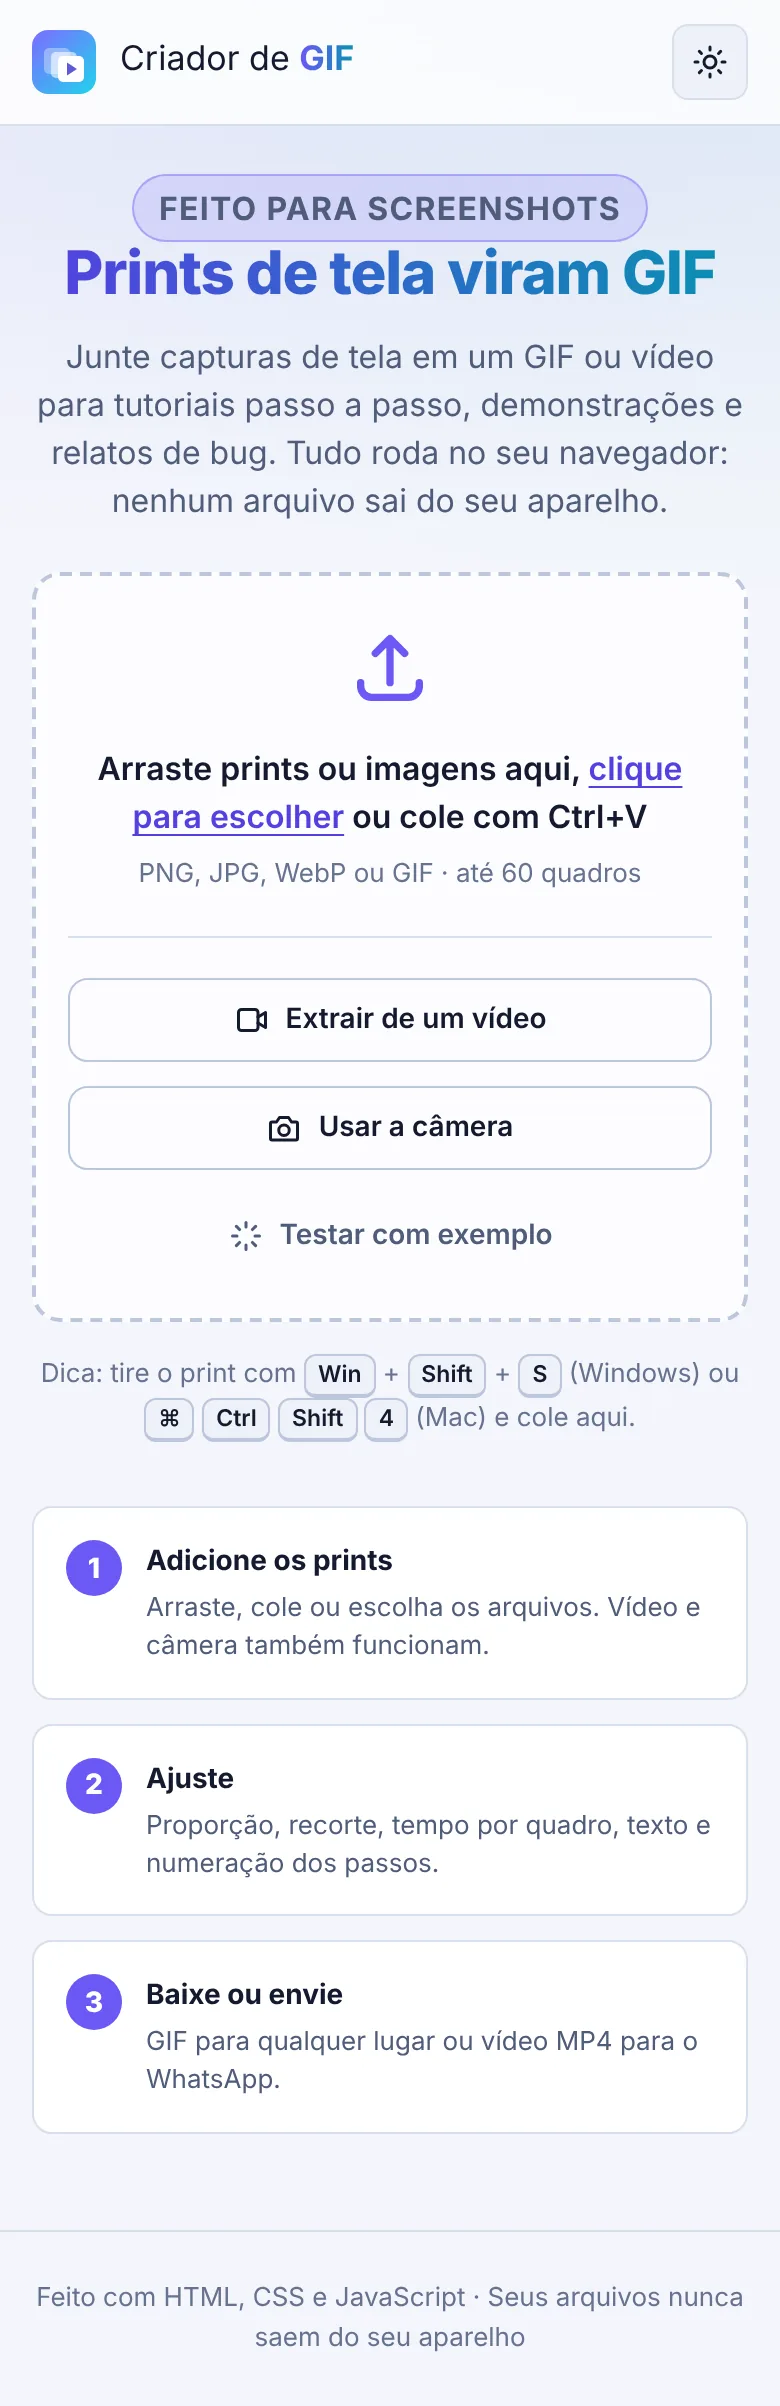
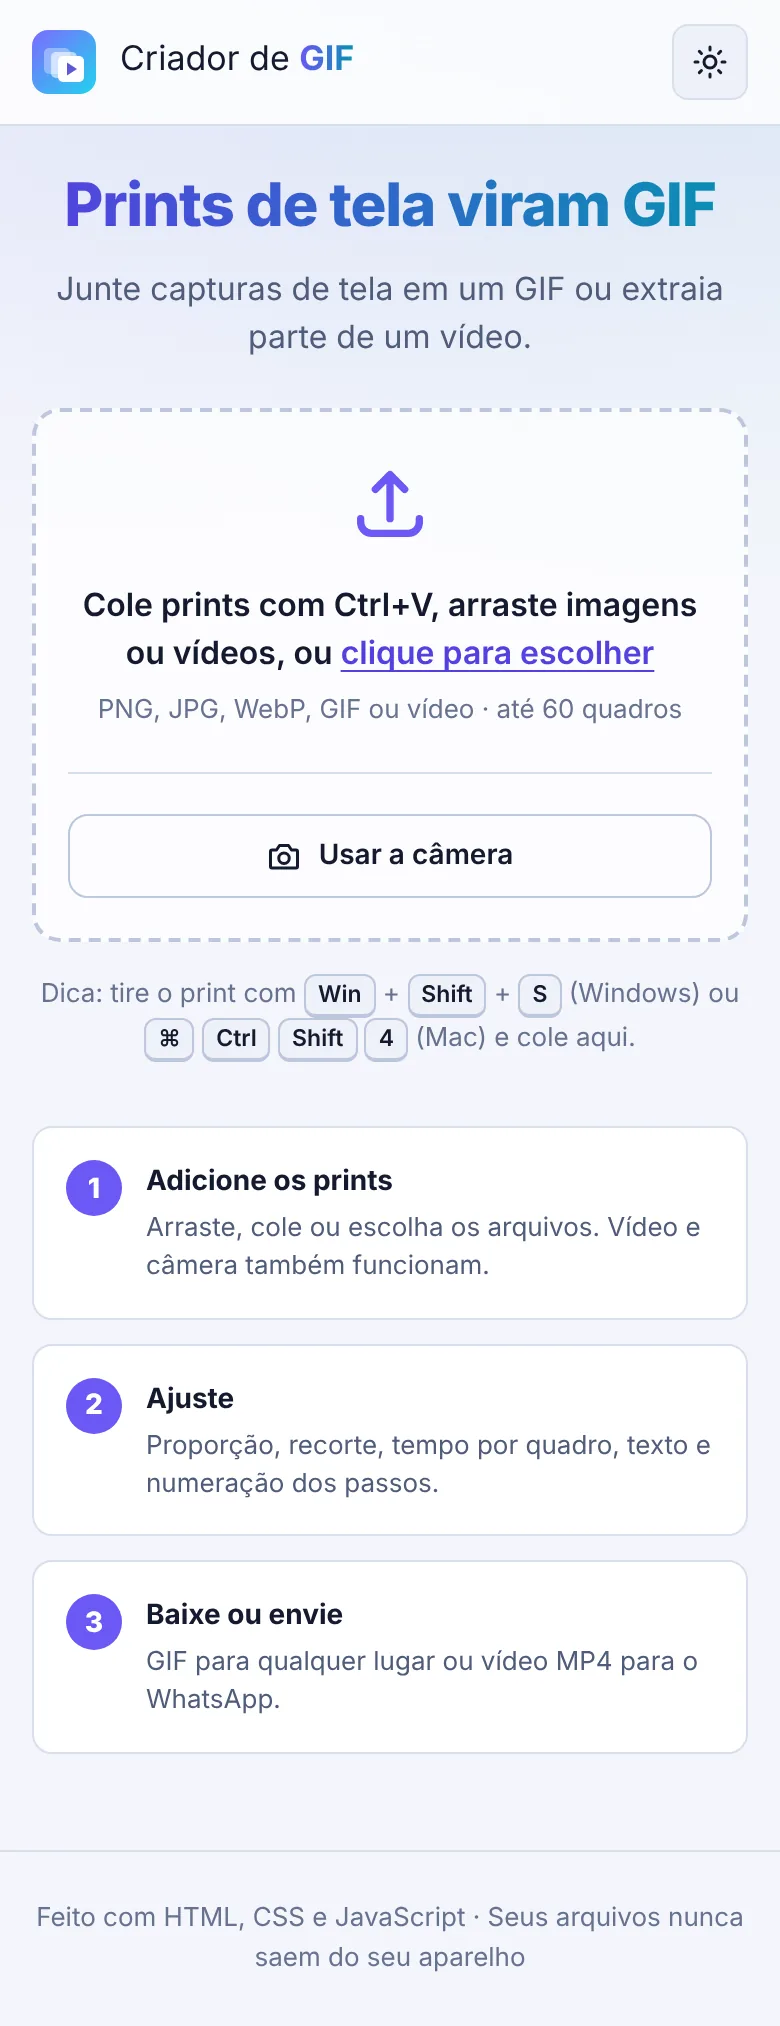
Ajusta textos da tela inicial; remove 'Testar com exemplo' e botão de vídeo (vídeo entra pela caixa de importação)
Claude-Session: https://claude.ai/code/session_01KEZzbK3pqvvUosB7b8xbzM

diff --git a/index.html b/index.html
@@ -44,30 +44,21 @@
     <!-- ============ TELA 1: UPLOAD ============ -->
     <section class="view view--upload" id="viewUpload">
       <div class="hero">
-        <p class="hero__tag">Feito para screenshots</p>
         <h1>Prints de tela viram GIF</h1>
-        <p>Junte capturas de tela em um GIF ou vídeo para tutoriais passo a passo, demonstrações e relatos de bug. Tudo roda no seu navegador: nenhum arquivo sai do seu aparelho.</p>
+        <p>Junte capturas de tela em um GIF ou extraia parte de um vídeo.</p>
       </div>
 
       <div class="dropzone" id="dropzone">
-        <input type="file" id="fileInput" accept="image/*" multiple aria-label="Escolher imagens ou prints">
+        <input type="file" id="fileInput" accept="image/*,video/*" multiple aria-label="Escolher prints, imagens ou vídeos">
         <div class="dropzone__main">
           <svg class="dropzone__icon" viewBox="0 0 24 24" aria-hidden="true"><path d="M4 16v1a3 3 0 0 0 3 3h10a3 3 0 0 0 3-3v-1M16 8l-4-4-4 4M12 4v12"/></svg>
-          <span class="dropzone__title">Arraste prints ou imagens aqui, <u>clique para escolher</u> ou cole com Ctrl+V</span>
-          <span class="dropzone__hint">PNG, JPG, WebP ou GIF · até <span data-max></span> quadros</span>
+          <span class="dropzone__title">Cole prints com Ctrl+V, arraste imagens ou vídeos, ou <u>clique para escolher</u></span>
+          <span class="dropzone__hint">PNG, JPG, WebP, GIF ou vídeo · até <span data-max></span> quadros</span>
         </div>
         <div class="dropzone__actions">
-          <button class="btn btn--outline" id="btnVideo" type="button">
-            <svg viewBox="0 0 24 24" aria-hidden="true"><rect x="3" y="5" width="13" height="14" rx="2"/><path d="m16 10 5-3v10l-5-3"/></svg>
-            Extrair de um vídeo
-          </button>
           <button class="btn btn--outline" id="btnCam" data-cam type="button">
             <svg viewBox="0 0 24 24" aria-hidden="true"><path d="M4 8h3l2-3h6l2 3h3a1 1 0 0 1 1 1v10a1 1 0 0 1-1 1H4a1 1 0 0 1-1-1V9a1 1 0 0 1 1-1z"/><circle cx="12" cy="13.5" r="3.5"/></svg>
             Usar a câmera
-          </button>
-          <button class="btn btn--ghost" id="btnSample" type="button">
-            <svg viewBox="0 0 24 24" aria-hidden="true"><path d="M12 3v3M12 18v3M3 12h3M18 12h3M5.6 5.6l2.1 2.1M16.3 16.3l2.1 2.1M5.6 18.4l2.1-2.1M16.3 7.7l2.1-2.1"/></svg>
-            Testar com exemplo
           </button>
         </div>
         <input type="file" id="videoInput" accept="video/*" hidden>
@@ -75,7 +66,7 @@
       <p class="dropzone__tip">Dica: tire o print com <kbd>Win</kbd> + <kbd>Shift</kbd> + <kbd>S</kbd> (Windows) ou <kbd>⌘</kbd> <kbd>Ctrl</kbd> <kbd>Shift</kbd> <kbd>4</kbd> (Mac) e cole aqui.</p>
 
       <ol class="steps">
-        <li><b>Adicione os prints</b><span>Arraste, cole ou escolha os arquivos. Vídeo e câmera também funcionam.</span></li>
+        <li><b>Adicione os prints</b><span>Cole, arraste ou escolha os arquivos. Vídeo e câmera também funcionam.</span></li>
         <li><b>Ajuste</b><span>Proporção, recorte, tempo por quadro, texto e numeração dos passos.</span></li>
         <li><b>Baixe ou envie</b><span>GIF para qualquer lugar ou vídeo MP4 para o WhatsApp.</span></li>
       </ol>

diff --git a/js/app.js b/js/app.js
@@ -1080,7 +1080,6 @@ function updateVideoHint() {
 
 function bindVideo() {
   const pick = () => $('#videoInput').click();
-  $('#btnVideo').addEventListener('click', pick);
   $('#btnAddVideo').addEventListener('click', pick);
   $('#videoInput').addEventListener('change', (e) => {
     const f = e.target.files[0];
@@ -1136,37 +1135,6 @@ function bindVideo() {
     if (videoState.url) URL.revokeObjectURL(videoState.url);
     videoState.url = null;
   });
-}
-
-// ---------------------------------------------------------------- exemplo
-async function makeSample() {
-  const blobs = [];
-  const N = 8;
-  for (let i = 0; i < N; i++) {
-    const c = document.createElement('canvas');
-    c.width = c.height = 480;
-    const ctx = c.getContext('2d');
-    const hue = (i / N) * 360;
-    const g = ctx.createLinearGradient(0, 0, 480, 480);
-    g.addColorStop(0, `hsl(${hue} 80% 60%)`);
-    g.addColorStop(1, `hsl(${(hue + 60) % 360} 80% 35%)`);
-    ctx.fillStyle = g;
-    ctx.fillRect(0, 0, 480, 480);
-    const t = i / N;
-    const y = 120 + Math.abs(Math.sin(t * Math.PI)) * -60 + 200 * (1 - Math.abs(Math.sin(t * Math.PI)));
-    ctx.fillStyle = 'rgb(255 255 255 / .92)';
-    ctx.beginPath();
-    ctx.arc(240, y, 56, 0, Math.PI * 2);
-    ctx.fill();
-    ctx.fillStyle = 'rgb(0 0 0 / .18)';
-    ctx.beginPath();
-    ctx.ellipse(240, 420, 70 - (420 - y) / 8, 12, 0, 0, Math.PI * 2);
-    ctx.fill();
-    const blob = await new Promise((r) => c.toBlob(r, 'image/png'));
-    blob.name = `exemplo-${i + 1}.png`;
-    blobs.push(blob);
-  }
-  await addBlobs(blobs);
 }
 
 // ---------------------------------------------------------------- vídeo para WhatsApp
@@ -1404,9 +1372,15 @@ function bindCamera() {
 
 // ---------------------------------------------------------------- eventos globais
 function bindGlobal() {
-  $('#fileInput').addEventListener('change', (e) => { addBlobs(imageFilesFrom(e.target.files)); e.target.value = ''; });
+  $('#fileInput').addEventListener('change', (e) => {
+    const files = [...e.target.files];
+    e.target.value = '';
+    const imgs = imageFilesFrom(files);
+    const video = files.find((f) => f.type.startsWith('video/'));
+    if (imgs.length) addBlobs(imgs);
+    else if (video) openVideo(video);
+  });
   $('#addInput').addEventListener('change', (e) => { addBlobs(imageFilesFrom(e.target.files)); e.target.value = ''; });
-  $('#btnSample').addEventListener('click', makeSample);
   $('#btnReset').addEventListener('click', () => {
     if (state.frames.length && !confirmReset()) return;
     resetAll();

diff --git a/sw.js b/sw.js
@@ -1,5 +1,5 @@
 // Service worker: rede primeiro, cache como reserva (funciona offline sem servir versão velha).
-const CACHE = 'gif-maker-v4';
+const CACHE = 'gif-maker-v5';
 const ASSETS = [
   './', 'index.html', 'css/style.css',
   'js/app.js', 'js/render.js', 'js/encoder.js', 'js/video.js', 'js/gifdecode.js', 'js/videoexport.js', 'js/camera.js',

diff --git a/README.md b/README.md
@@ -36,7 +36,7 @@ No celular:
 - **Proporções**: original, 16:9, 16:10, 21:9, 4:3, 3:2, 5:4, 1:1, 4:5, 3:4, 2:3, 9:16, 9:19,5 ou personalizada (ex.: 7:3); largura de 240 a 1280 px; encaixar ou preencher, com cor de fundo automática (cor da borda do print)
 - **Passo a passo**: numere os quadros (1, 2, 3…) e defina o tempo em segundos por print
 - **Tema**: claro ou escuro, à sua escolha
-- **Sem voltar**: vídeo, câmera e exemplo ficam dentro da caixa de importação, e o GIF gerado aparece na página (marcado como "desatualizado" se você mudar algo)
+- **Sem voltar**: vídeo (arraste ou escolha) e câmera ficam dentro da caixa de importação, e o GIF gerado aparece na página (marcado como "desatualizado" se você mudar algo)
 - **Filtros**: P&B, sépia, vintage, vívido, quente, frio, além de brilho, contraste e saturação
 - **Texto/legenda** com posição, tamanho, cor e contorno
 - **Transição** com esmaecimento suave entre quadros
